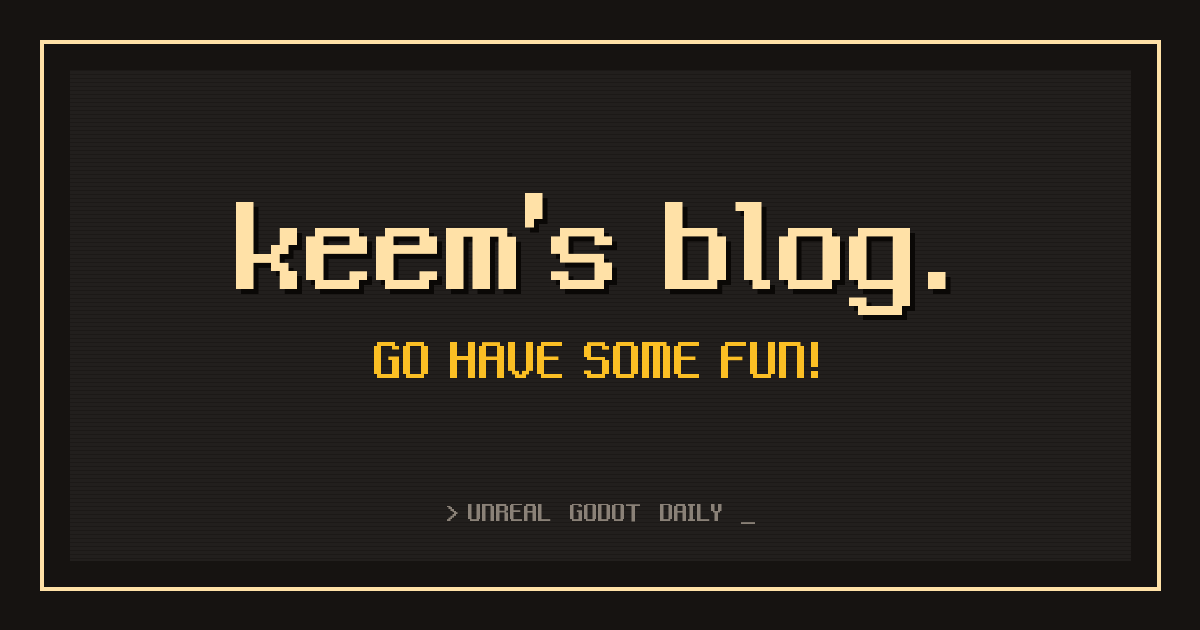
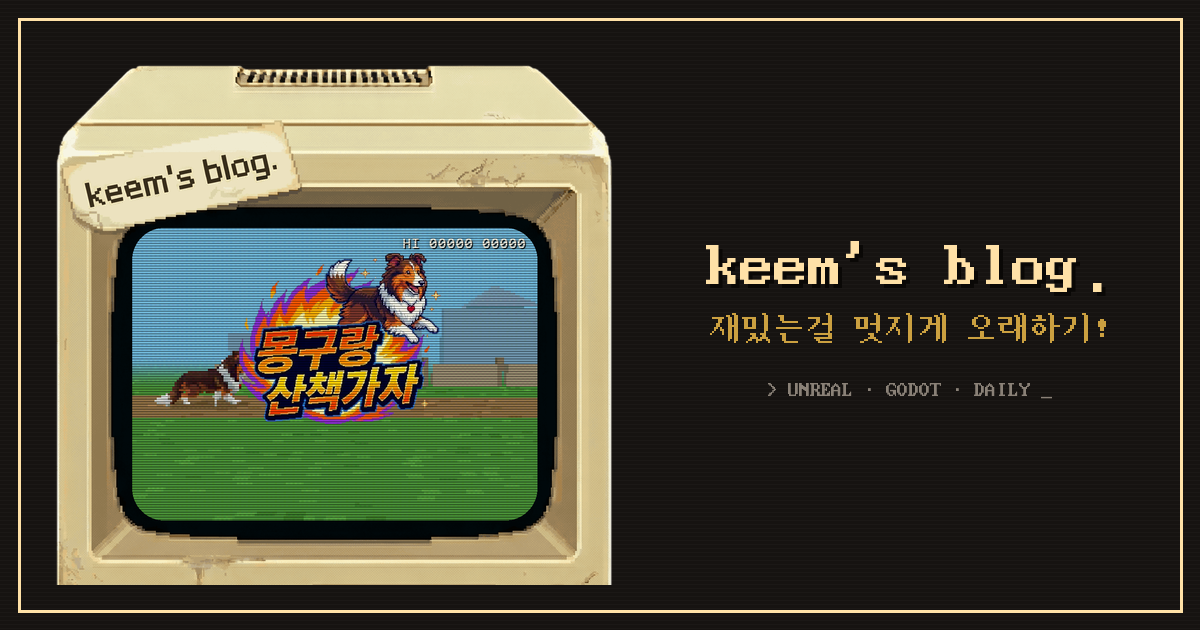
홈 OG: 제목 keem's blog.·설명 keem의 블로그·썸네일을 콘솔+몽구 대기화면 합성으로 갱신

diff --git a/scripts/generate_home_og.py b/scripts/generate_home_og.py
@@ -1,70 +1,93 @@
 #!/usr/bin/env python3
-"""홈 페이지용 OG 이미지 생성 (keem's blog. / GO HAVE SOME FUN!)"""
+"""홈 페이지용 OG 이미지 생성 (1200×630)
+왼쪽: 콘솔 일러스트(GameMode.png)의 TV 부분 + 화면 안에 「몽구랑 산책가자」 대기화면 프레임 합성
+오른쪽: keem's blog. / 재밌는걸 멋지게 오래하기! / > UNREAL · GODOT · DAILY _
+
+입력: assets/images/crt/GameMode.png, scripts/og-assets/home-screen.png (게임 대기화면 캡처, 비율 1.386)
+출력: assets/og/home-og.png
+"""
 
 from pathlib import Path
 from PIL import Image, ImageDraw, ImageFont
 
 BLOG_ROOT = Path(__file__).parent.parent
 FONT_PATH = BLOG_ROOT / "assets" / "fonts" / "HBIOS-SYS" / "HBIOS-SYS.ttf"
+CONSOLE = BLOG_ROOT / "assets" / "images" / "crt" / "GameMode.png"
+SCREEN_FRAME = BLOG_ROOT / "scripts" / "og-assets" / "home-screen.png"
 OUTPUT = BLOG_ROOT / "assets" / "og" / "home-og.png"
 
 WIDTH, HEIGHT = 1200, 630
 
 BG = (22, 19, 17)          # #161311
-SURFACE = (34, 31, 29)      # #221f1d
 PRIMARY = (255, 225, 167)   # #ffe1a7
-ACCENT = (251, 191, 36)     # #fbbf24
+ACCENT = (203, 160, 64)     # #cba040 (사이트 앰버)
 MUTED = (138, 129, 119)
+
+# GameMode.png(1856×2304) 기준 좌표 — .console-screen CSS 비율(left 23.98% / top 20.27% / w 52.26% / h 30.38%)
+SRC_W, SRC_H = 1856, 2304
+SCREEN = (int(SRC_W * 0.2398), int(SRC_H * 0.2027), int(SRC_W * 0.5226), int(SRC_H * 0.3038))  # x, y, w, h
+TV_CROP = (215, 30, 1640, 1320)   # TV 본체 + 여백
 
 img = Image.new("RGB", (WIDTH, HEIGHT), BG)
 draw = ImageDraw.Draw(img)
 
-font_title = ImageFont.truetype(str(FONT_PATH), 140)
-font_sub = ImageFont.truetype(str(FONT_PATH), 56)
-font_tag = ImageFont.truetype(str(FONT_PATH), 28)
+# 배경 스캔라인
+for y in range(0, HEIGHT, 4):
+    draw.line([(0, y), (WIDTH, y)], fill=(27, 24, 22), width=1)
 
-# Retro CRT frame border
-border_pad = 40
-draw.rectangle(
-    [border_pad, border_pad, WIDTH - border_pad, HEIGHT - border_pad],
-    outline=PRIMARY, width=4
-)
-# Inner screen
-inner_pad = 70
-draw.rectangle(
-    [inner_pad, inner_pad, WIDTH - inner_pad, HEIGHT - inner_pad],
-    fill=SURFACE
-)
+# --- 콘솔 TV + 화면 합성 (원본 해상도에서 합성 후 축소) ---
+console = Image.open(CONSOLE).convert("RGBA")
+frame = Image.open(SCREEN_FRAME).convert("RGB")
+sx, sy, sw, sh = SCREEN
+frame = frame.resize((sw, sh), Image.LANCZOS)
 
-# Scanlines
-for y in range(inner_pad, HEIGHT - inner_pad, 4):
-    draw.line([(inner_pad, y), (WIDTH - inner_pad, y)], fill=(28, 25, 23), width=1)
+# CRT 스캔라인 (CSS 오버레이 느낌)
+fd = ImageDraw.Draw(frame)
+for y in range(0, sh, 6):
+    fd.line([(0, y), (sw, y)], fill=(0, 0, 0), width=2)
+frame = Image.blend(frame, Image.open(SCREEN_FRAME).convert("RGB").resize((sw, sh), Image.LANCZOS), 0.55)
 
-# Title: keem's blog.
+# 둥근 모서리 마스크 (border-radius 7% / 11%)
+mask = Image.new("L", (sw, sh), 0)
+ImageDraw.Draw(mask).rounded_rectangle([0, 0, sw - 1, sh - 1], radius=int(sh * 0.11), fill=255)
+console.paste(frame, (sx, sy), mask)
+
+tv = console.crop(TV_CROP)
+tv_h = 540
+tv_w = int(tv.width * tv_h / tv.height)
+tv = tv.resize((tv_w, tv_h), Image.LANCZOS)
+tv_x, tv_y = 36, (HEIGHT - tv_h) // 2
+img.paste(tv, (tv_x, tv_y), tv)
+
+# --- 오른쪽 텍스트 ---
+font_title = ImageFont.truetype(str(FONT_PATH), 68)
+font_sub = ImageFont.truetype(str(FONT_PATH), 32)
+font_tag = ImageFont.truetype(str(FONT_PATH), 22)
+
+text_x = tv_x + tv_w + 24
+right_w = WIDTH - text_x - 36
+
 title = "keem's blog."
 tb = draw.textbbox((0, 0), title, font=font_title)
 tw, th = tb[2] - tb[0], tb[3] - tb[1]
-tx = (WIDTH - tw) // 2
-ty = (HEIGHT - th) // 2 - 70
-draw.text((tx + 5, ty + 5), title, font=font_title, fill=(10, 8, 6))  # shadow
+tx = text_x + (right_w - tw) // 2
+ty = 232
+draw.text((tx + 4, ty + 4), title, font=font_title, fill=(10, 8, 6))   # shadow
 draw.text((tx, ty), title, font=font_title, fill=PRIMARY)
 
-# Subtitle: GO HAVE SOME FUN!
-sub = "GO HAVE SOME FUN!"
+sub = "재밌는걸 멋지게 오래하기!"
 sb = draw.textbbox((0, 0), sub, font=font_sub)
-sw, sh = sb[2] - sb[0], sb[3] - sb[1]
-sx = (WIDTH - sw) // 2
-sy = ty + th + 30
-draw.text((sx, sy), sub, font=font_sub, fill=ACCENT)
+sw2 = sb[2] - sb[0]
+draw.text((text_x + (right_w - sw2) // 2, ty + th + 30), sub, font=font_sub, fill=ACCENT)
 
-# Bottom tag line
-tag = "> UNREAL  GODOT  DAILY  _"
+tag = "> UNREAL · GODOT · DAILY _"
 gb = draw.textbbox((0, 0), tag, font=font_tag)
 gw = gb[2] - gb[0]
-gx = (WIDTH - gw) // 2
-gy = HEIGHT - inner_pad - 60
-draw.text((gx, gy), tag, font=font_tag, fill=MUTED)
+draw.text((text_x + (right_w - gw) // 2, ty + th + 30 + 32 + 34), tag, font=font_tag, fill=MUTED)
+
+# 외곽 CRT 프레임 라인
+draw.rectangle([18, 18, WIDTH - 18, HEIGHT - 18], outline=PRIMARY, width=3)
 
 OUTPUT.parent.mkdir(parents=True, exist_ok=True)
-img.save(str(OUTPUT), "PNG", optimize=True)
-print(f"[OK] {OUTPUT}")
+img.save(OUTPUT, optimize=True)
+print(f"saved {OUTPUT} ({OUTPUT.stat().st_size // 1024} KB)")

diff --git a/index.md b/index.md
@@ -1,4 +1,4 @@
 ---
 layout: home
-title: "Home"
+title: "keem's blog."
 ---
